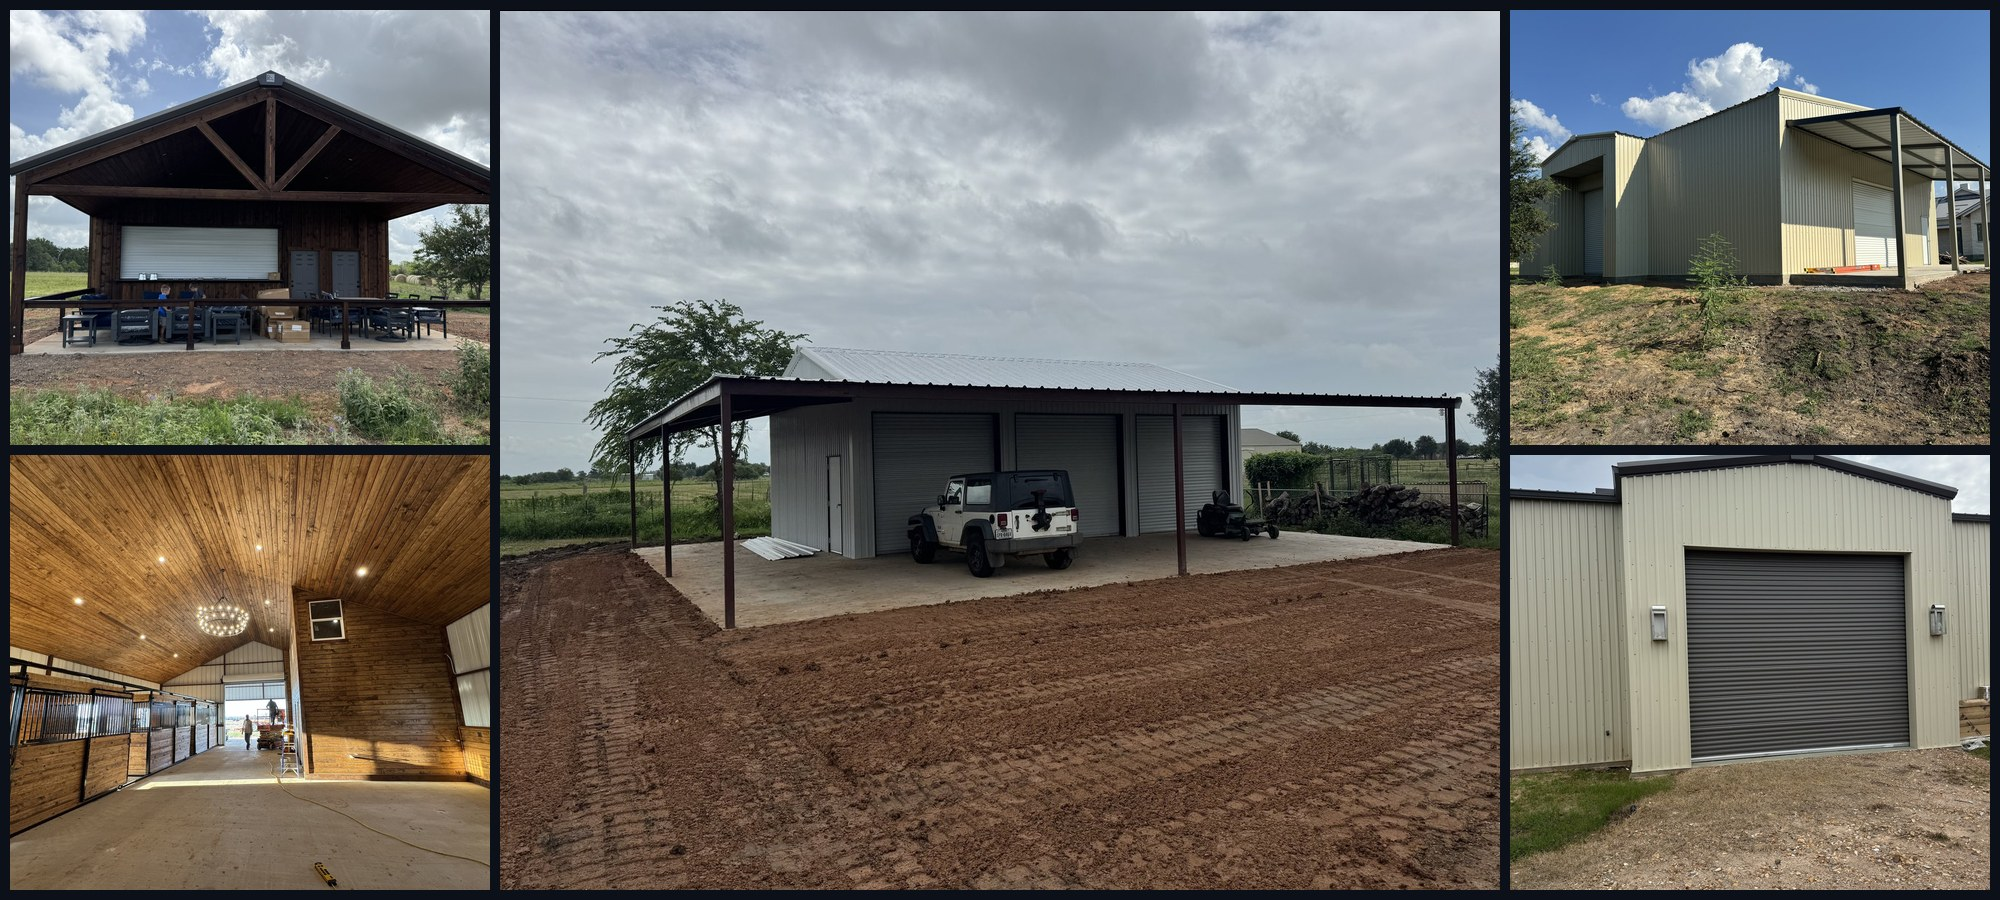
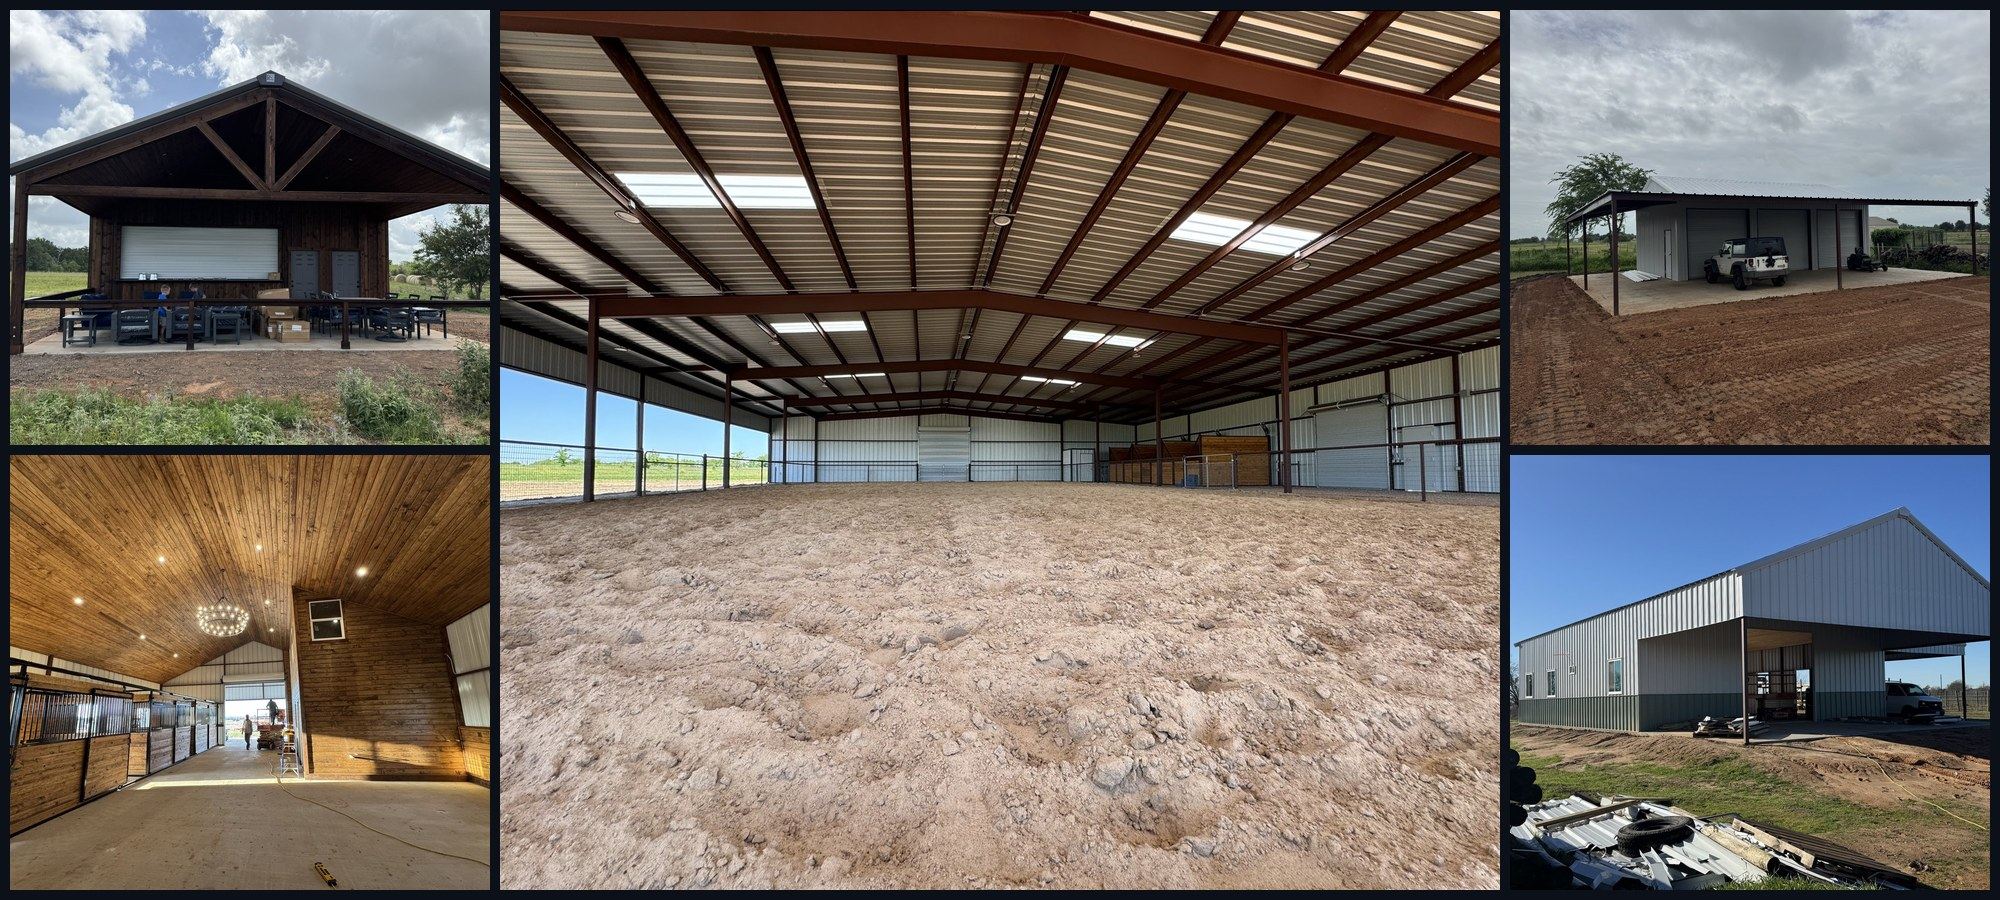
Add four more job photos and refresh work collages
Arena interiors, two-tone metal barn, and ridge logo plate join the gallery.

diff --git a/src/data/projects.ts b/src/data/projects.ts
@@ -19,6 +19,38 @@ export type Project = {
 
 export const projects: Project[] = [
   {
+    id: "covered-arena-span",
+    title: "Covered arena — open span",
+    category: "Metal buildings",
+    location: "Southeast Texas",
+    blurb: "Clear-span steel arena with skylights, dirt floor, and stall build-out.",
+    image: "/projects/covered-arena-open-span.jpg",
+  },
+  {
+    id: "covered-arena-dirt",
+    title: "Arena floor & steel frame",
+    category: "Dirt & site work",
+    location: "Southeast Texas",
+    blurb: "Groomed arena dirt under a full steel clear-span structure.",
+    image: "/projects/covered-arena-dirt-floor.jpg",
+  },
+  {
+    id: "metal-two-tone",
+    title: "Two-tone metal barn",
+    category: "Metal buildings",
+    location: "Southeast Texas",
+    blurb: "Custom metal barn with porch, wood soffit, and two-tone siding.",
+    image: "/projects/metal-barn-two-tone.jpg",
+  },
+  {
+    id: "logo-plate",
+    title: "Custom logo plate",
+    category: "Structural steel",
+    location: "Southeast Texas",
+    blurb: "Fabricated metal brand mark mounted at the ridge.",
+    image: "/projects/logo-plate-roofline.jpg",
+  },
+  {
     id: "timber-pavilion",
     title: "Timber outdoor pavilion",
     category: "Custom builds",
